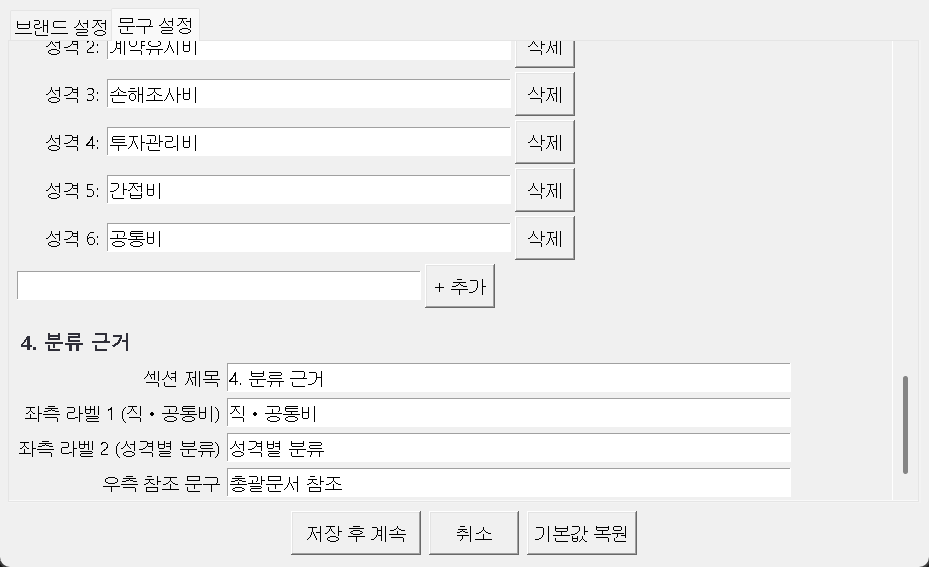
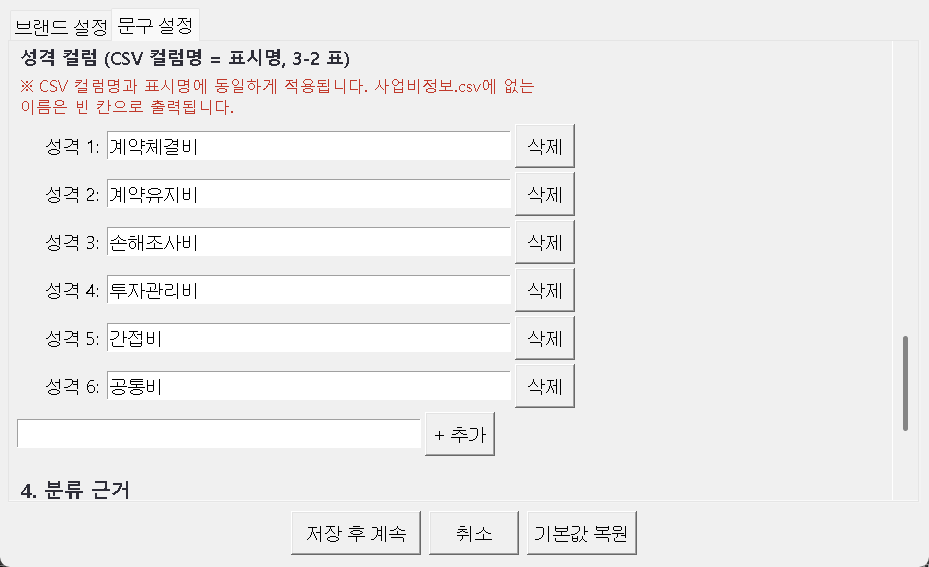
chore: prepare v2.2.0 release artifacts

diff --git a/release/generate_manual.py b/release/generate_manual.py
@@ -1,6 +1,6 @@
 """
 generate_manual.py
-역할: 지급사업비 분석 자동화 프로그램 사용설명서(v2.0.0) PDF를 생성한다.
+역할: 지급사업비 분석 자동화 프로그램 사용설명서(v2.2.0) PDF를 생성한다.
 
 기존 pdf_exporter.py의 PDF 생성 패턴(ReportLab Platypus, A4 세로, NanumGothic TTF 등록,
 상/하단 색상 바)을 재사용하되, EY Korea 브랜드 색상과 20mm 여백을 적용한다.
@@ -9,7 +9,7 @@ generate_manual.py
       /usr/share/fonts/truetype/nanum. 모두 실패 시 Helvetica 폴백(한글 깨짐 경고).
 
 실행:  python3 generate_manual.py
-출력:  release/사용설명서_v2.0.0.pdf
+출력:  release/사용설명서_v2.2.0.pdf
 """
 from __future__ import annotations
 
@@ -34,7 +34,7 @@ from PIL import Image as PILImage
 
 # ── 출력 경로 ─────────────────────────────────────────────────────────────────
 _HERE = Path(__file__).resolve().parent
-_OUT_PDF = _HERE / "사용설명서_v2.1.0.pdf"
+_OUT_PDF = _HERE / "사용설명서_v2.2.0.pdf"
 _SHOTS = _HERE / "screenshots"          # capture_screenshots.py 출력 폴더
 
 # ── EY Korea 브랜드 색상 ──────────────────────────────────────────────────────
@@ -279,7 +279,7 @@ def warn_box(title: str, body: str, s: dict) -> Table:
 #  페이지 데코레이션 (상/하단 바 — pdf_exporter 헤더/푸터 바 패턴)
 # ════════════════════════════════════════════════════════════════════════════
 
-_FOOTER_LEFT = "지급사업비 분석 자동화 프로그램 사용설명서 v2.1.0"
+_FOOTER_LEFT = "지급사업비 분석 자동화 프로그램 사용설명서 v2.2.0"
 _FOOTER_RIGHT = "© EY Korea"
 
 
@@ -332,7 +332,7 @@ def build_story(s: dict) -> list:
     story.append(Paragraph("Business Expense Statement Analysis — User Manual", s["cover_sub"]))
     story.append(gap(28))
     cover_meta = [
-        [Paragraph("버전", s["td_b"]), Paragraph("v2.1.0", s["td"])],
+        [Paragraph("버전", s["td_b"]), Paragraph("v2.2.0", s["td"])],
         [Paragraph("배포일", s["td_b"]), Paragraph("2026년 06월", s["td"])],
         [Paragraph("운영 체제", s["td_b"]), Paragraph("Windows 전용", s["td"])],
         [Paragraph("입력 형식", s["td_b"]), Paragraph("CSV 4개 파일 (UTF-8 / CP949)", s["td"])],
@@ -417,7 +417,7 @@ def build_story(s: dict) -> list:
          Paragraph("—", s["td_c"])],
         [Paragraph("출력.csv", s["td_b"]),
          Paragraph("출력전표", s["td"]),
-         Paragraph("주관부서·사용부서·(분류 근거 7컬럼)", s["td"])],
+         Paragraph("주관부서·사용부서·(분류 근거 텍스트 컬럼)·(참조문서 컬럼: 예) 참조문서1·참조문서2)", s["td"])],
     ]
     story.append(info_table(
         req_rows, s,
@@ -496,6 +496,41 @@ def build_story(s: dict) -> list:
         "창에 '미등록 성격 컬럼' 경고로만 표시됩니다.", s))
     story.append(gap(8))
 
+    # 분류 근거(섹션 4) 행 설정 ──────────────────────────────────────────────
+    story.append(subhead("분류 근거(섹션 4) 행 설정", s))
+    story.append(gap(3))
+    story.append(body(
+        "PDF의 <b>4. 분류 근거</b> 표는 [문구 설정] 탭에서 <b>행 단위로 추가·삭제</b>할 수 있는 동적 "
+        "구성입니다. 각 행은 아래 <b>세 가지 타입</b> 중 하나이며, [행 추가] 버튼으로 타입을 골라 "
+        "추가하고 각 행의 [삭제] 버튼으로 제거합니다. 행을 삭제하면 PDF에서도 해당 행이 사라집니다.", s))
+    story.append(gap(4))
+    story.extend(screenshot(
+        "07_basis_rows.png",
+        "[문구 설정] 탭 — 분류 근거(섹션 4) 동적 행 편집기: 근거 텍스트 컬럼·참조문서 컬럼 입력과 "
+        "행 타입별 추가 버튼(직공통비/성격별분류/커스텀)", s))
+    story.append(gap(5))
+    type_rows = [
+        [Paragraph("직공통비", s["td_b"]),
+         Paragraph("출력.csv의 직접비/공통비 근거 텍스트를 자동으로 모아 표시합니다(금액 0원 항목 제외).", s["td"])],
+        [Paragraph("성격별분류", s["td_b"]),
+         Paragraph("성격별(계약체결비·계약유지비 등) 근거 텍스트를 부점 금액 기준으로 모아 표시합니다.", s["td"])],
+        [Paragraph("custom", s["td_b"]),
+         Paragraph("<b>근거 텍스트 컬럼</b>에 적은 출력.csv 컬럼의 값을 그대로 내용 칸에 표시합니다.", s["td"])],
+    ]
+    story.append(info_table(type_rows, s, [28 * mm, _WIDTH - 28 * mm], header=["행 타입", "내용 칸 채우는 방식"]))
+    story.append(gap(5))
+    story.extend(bullets([
+        "<b>근거 텍스트 컬럼</b> (custom 행 전용) — 내용 칸을 채울 출력.csv 컬럼명을 적습니다. "
+        "출력.csv의 컬럼 헤더와 <b>글자·띄어쓰기까지 정확히 일치</b>해야 하며, 해당 컬럼의 첫 값이 표시됩니다.",
+        "<b>참조문서 컬럼</b> (모든 행 공통) — 표 오른쪽 참조 칸을 채울 출력.csv 컬럼명을 적습니다. "
+        "마찬가지로 컬럼 헤더와 정확히 일치해야 하며, <b>비워 두면 참조 칸이 빈 칸으로 출력</b>됩니다. "
+        "지정한 컬럼이 출력.csv에 없거나 값이 비어 있어도 오류 없이 빈 칸으로 표시됩니다.",
+        "<b>출력.csv에 컬럼 추가</b> — 위 두 필드에서 사용할 컬럼은 출력.csv 첫 줄(헤더)에 이름을 "
+        "추가하고, 출력전표 코드별 행에 값을 채우면 됩니다(예: 참조문서1, 참조문서2). 동봉된 "
+        "templates/ 폴더의 출력.csv 양식에 예시 컬럼이 포함되어 있습니다.",
+    ], s))
+    story.append(gap(8))
+
     # Step 2 — CSV 파일 선택
     story.append(body("<b>Step 2. CSV 파일 4개 선택</b>", s))
     story.append(gap(3))
@@ -539,7 +574,9 @@ def build_story(s: dict) -> list:
                    "공통비로 구분된 금액은 귀속 부서 성격에 따라 공통부서에서 직접 부서로 "
                    "순차적 배부됨.", s["td"])],
         [Paragraph("4. 분류 근거", s["td_b"]),
-         Paragraph("출력.csv의 직접비/공통비·성격별 근거 텍스트(금액 0원 항목은 제외)", s["td"])],
+         Paragraph("타입별 동적 행(직공통비·성격별분류·custom)으로 구성. 각 행의 내용은 출력.csv "
+                   "값에서 채워지며, 참조 칸은 행마다 지정한 <b>참조문서 컬럼</b>의 값으로 표시됩니다"
+                   "(컬럼이 없거나 비어 있으면 빈 칸). 자세한 설정은 3장의 '분류 근거(섹션 4) 행 설정' 참고.", s["td"])],
     ]
     story.append(info_table(pdf_rows, s, [32 * mm, _WIDTH - 32 * mm], header=None))
 
@@ -602,6 +639,11 @@ def build_story(s: dict) -> list:
     story.append(section_title("7", "변경 이력", s))
     story.append(gap(4))
     hist_rows = [
+        [Paragraph("v2.2.0", s["td_b"]), Paragraph("2026/06", s["td_c"]),
+         Paragraph("<b>분류 근거(섹션 4) 동적 행 편집</b> 추가(직공통비·성격별분류·custom 타입 행 "
+                   "추가/삭제); <b>참조 셀 데이터 연동</b> — 행마다 지정한 출력.csv '참조문서 컬럼' "
+                   "값으로 참조 칸을 채움(미지정·빈 값이면 빈 칸); <b>문구 설정 탭 라벨 개선</b> "
+                   "('근거 텍스트 컬럼', '참조문서 컬럼')", s["td"])],
         [Paragraph("v2.1.0", s["td_b"]), Paragraph("2026/06", s["td_c"]),
          Paragraph("<b>문구 설정 탭</b> 추가(PDF 표시 문구 직접 편집); <b>성격 컬럼 동적 추가/삭제</b> "
                    "(CSV명=표시명 통합); <b>미등록 성격 컬럼 경고</b>를 최종 요약 창에 표시; "
@@ -618,7 +660,7 @@ def build_story(s: dict) -> list:
         header=["버전", "날짜", "주요 변경 내용"]))
     story.append(gap(8))
     story.append(Paragraph(
-        "본 설명서는 v2.1.0(현재 코드) 기준으로 작성되었습니다. © EY Korea", s["note"]))
+        "본 설명서는 v2.2.0(현재 코드) 기준으로 작성되었습니다. © EY Korea", s["note"]))
 
     return story
 
@@ -635,7 +677,7 @@ def main() -> None:
         str(_OUT_PDF), pagesize=_PAGE,
         leftMargin=_MARGIN, rightMargin=_MARGIN,
         topMargin=_MARGIN + 4 * mm, bottomMargin=_MARGIN,
-        title="지급사업비 분석 자동화 프로그램 사용설명서 v2.1.0",
+        title="지급사업비 분석 자동화 프로그램 사용설명서 v2.2.0",
         author="EY Korea",
     )
     frame = Frame(_MARGIN, _MARGIN, _WIDTH, _PAGE[1] - 2 * _MARGIN - 4 * mm,

diff --git a/release/capture_screenshots.py b/release/capture_screenshots.py
@@ -42,6 +42,14 @@ from config_manager import load_config                        # noqa: E402
 
 _OPEN_DELAY_MS = 800   # 다이얼로그가 그려질 시간을 준 뒤 캡처 드라이버 실행
 
+# 파일 선택 다이얼로그 스크린샷(04)에 실제 사용자명이 노출되지 않도록 사용하는 익명 더미 경로
+_DUMMY_PATHS = {
+    "transaction": "C:/data/사업비정보.csv",
+    "account":     "C:/data/계정정보.csv",
+    "ccm":         "C:/data/부서정보.csv",
+    "output":      "C:/data/출력.csv",
+}
+
 
 # ── 공통 유틸 ─────────────────────────────────────────────────────────────────
 
@@ -71,6 +79,42 @@ def _find_descendant(widget, cls):
         if found is not None:
             return found
     return None
+
+
+def _find_all(widget, cls) -> list:
+    """widget 하위 트리에서 cls 인스턴스를 깊이우선 순서로 모두 수집한다."""
+    out = []
+    for child in widget.winfo_children():
+        if isinstance(child, cls):
+            out.append(child)
+        out.extend(_find_all(child, cls))
+    return out
+
+
+def _find_label_startswith(widget, prefix: str):
+    """text가 prefix로 시작하는 첫 tk.Label을 재귀 탐색하여 반환한다(없으면 None)."""
+    for child in widget.winfo_children():
+        if isinstance(child, tk.Label):
+            try:
+                if str(child.cget("text")).startswith(prefix):
+                    return child
+            except tk.TclError:
+                pass
+        found = _find_label_startswith(child, prefix)
+        if found is not None:
+            return found
+    return None
+
+
+def _scroll_to_widget(canvas: tk.Canvas, inner: tk.Frame, target) -> None:
+    """스크롤 캔버스에서 target 위젯이 보이도록 yview를 이동한다(target을 상단 근처에)."""
+    canvas.update_idletasks()
+    total = inner.winfo_height()
+    if total <= 0:
+        return
+    rel_y = target.winfo_rooty() - inner.winfo_rooty()
+    frac = max(0.0, min(1.0, rel_y / total))
+    canvas.yview_moveto(frac)
 
 
 def _settle(win, ms: int = 250) -> None:
@@ -142,17 +186,28 @@ def _capture_theme(root: tk.Tk, theme, config) -> None:
         # 2) 문구 설정 탭 (상단)
         nb.select(tabs[1]); _settle(dlg)
         canvas = _find_descendant(nb.nametowidget(tabs[1]), tk.Canvas)
+        inner = _find_descendant(canvas, tk.Frame) if canvas is not None else None
         if canvas is not None:
             canvas.update_idletasks()
             canvas.yview_moveto(0.0)
         _settle(dlg)
         _grab(dlg, _OUT_DIR / "02_labels_tab.png")
 
-        # 3) 성격 컬럼 추가/삭제 영역 (하단으로 스크롤)
+        # 3) 성격 컬럼 추가/삭제 영역 (해당 블록으로 스크롤)
+        if canvas is not None:
+            lbl = _find_label_startswith(inner, "성격 컬럼") if inner is not None else None
+            if inner is not None and lbl is not None:
+                _scroll_to_widget(canvas, inner, lbl)
+            else:
+                canvas.yview_moveto(1.0)
+        _settle(dlg)
+        _grab(dlg, _OUT_DIR / "03_nature_cols.png")
+
+        # 4) 분류 근거(섹션 4) 동적 행 편집기 (탭 최하단으로 스크롤)
         if canvas is not None:
             canvas.yview_moveto(1.0)
         _settle(dlg)
-        _grab(dlg, _OUT_DIR / "03_nature_cols.png")
+        _grab(dlg, _OUT_DIR / "07_basis_rows.png")
 
         dlg.destroy()   # wait_window 해제 (저장 안 함 = 부수효과 없음)
 
@@ -161,15 +216,42 @@ def _capture_theme(root: tk.Tk, theme, config) -> None:
 
 
 def _capture_file_select(root: tk.Tk) -> None:
+    # 익명화: 스크린샷에 실제 사용자명이 담긴 경로가 보이지 않도록 더미 경로를 표시한다.
+    #   1) last_paths.json 을 더미 경로로 임시 덮어쓴 뒤(요청사항), finally에서 원복한다.
+    #   2) 다만 다이얼로그는 존재하는 파일 경로만 표시하므로(main._show_file_select_dialog의
+    #      Path(saved).is_file() 가드), 캡처 직전 읽기전용 Entry 4칸 텍스트를 더미 경로로 직접
+    #      세팅하여 안정적으로 노출시킨다.
+    path = app._LAST_PATHS_FILE
+    state = (path, path.read_text(encoding="utf-8") if path.exists() else None)
+
     def driver() -> None:
         dlg = _latest_toplevel(root)
         if dlg is None:
             print("[warn] file-select dialog not found"); return
+        entries = _find_all(dlg, tk.Entry)
+        keys = [k for k, _ in app._FILE_SELECT_ROWS]
+        for entry, key in zip(entries, keys):
+            try:
+                entry.config(state="normal")
+                entry.delete(0, "end")
+                entry.insert(0, _DUMMY_PATHS[key])
+                entry.config(state="readonly")
+            except tk.TclError:
+                pass
         _grab(dlg, _OUT_DIR / "04_file_select.png")
         dlg.destroy()
 
-    root.after(_OPEN_DELAY_MS, driver)
-    app._show_file_select_dialog(root)
+    try:
+        try:
+            path.write_text(
+                json.dumps(_DUMMY_PATHS, ensure_ascii=False, indent=2), encoding="utf-8"
+            )
+        except OSError:
+            pass
+        root.after(_OPEN_DELAY_MS, driver)
+        app._show_file_select_dialog(root)
+    finally:
+        _restore_last_paths(state)
 
 
 def _capture_unregistered(root: tk.Tk) -> None:

diff --git a/README.md b/README.md
@@ -2,7 +2,7 @@
 
 A Windows tool that auto-generates **Business Expense Statement Analysis PDFs** in bulk from Excel source data (expense pivot tables), one PDF per output code.
 
-**Version:** v2.1.0 (2026/06)
+**Version:** v2.2.0 (2026/06)
 
 ---
 
@@ -21,6 +21,7 @@ A Windows tool that auto-generates **Business Expense Statement Analysis PDFs** 
 - **문구 설정 탭 (Display-label editing tab)** — A second tab in the theme dialog where every PDF display label (titles, headers, section labels) can be edited from a scrollable form
 - **성격 컬럼 동적 추가/삭제 (Dynamic nature-column add/delete)** — Add or remove nature classification columns from the 문구 설정 탭; each entry sets both the CSV column name and the PDF display name at once
 - **미등록 성격 컬럼 경고 (Unregistered nature-column warning)** — If a configured nature column is missing from `사업비정보.csv`, it is listed as a warning in the final summary dialog
+- **Section 4 분류 근거 동적 행 (Dynamic classification-basis rows)** — Section 4 ("분류 근거") is a typed, dynamic row system editable in the 문구 설정 탭. Three row types — **직공통비**, **성격별분류**, and **custom** — can be freely added and deleted. For custom rows the **근거 텍스트 컬럼** field names a `출력.csv` column whose first value becomes the cell content, and for every row type the **참조문서 컬럼** field names a `출력.csv` column whose first value fills the reference cell (left blank if the column is missing or empty)
 
 ---
 
